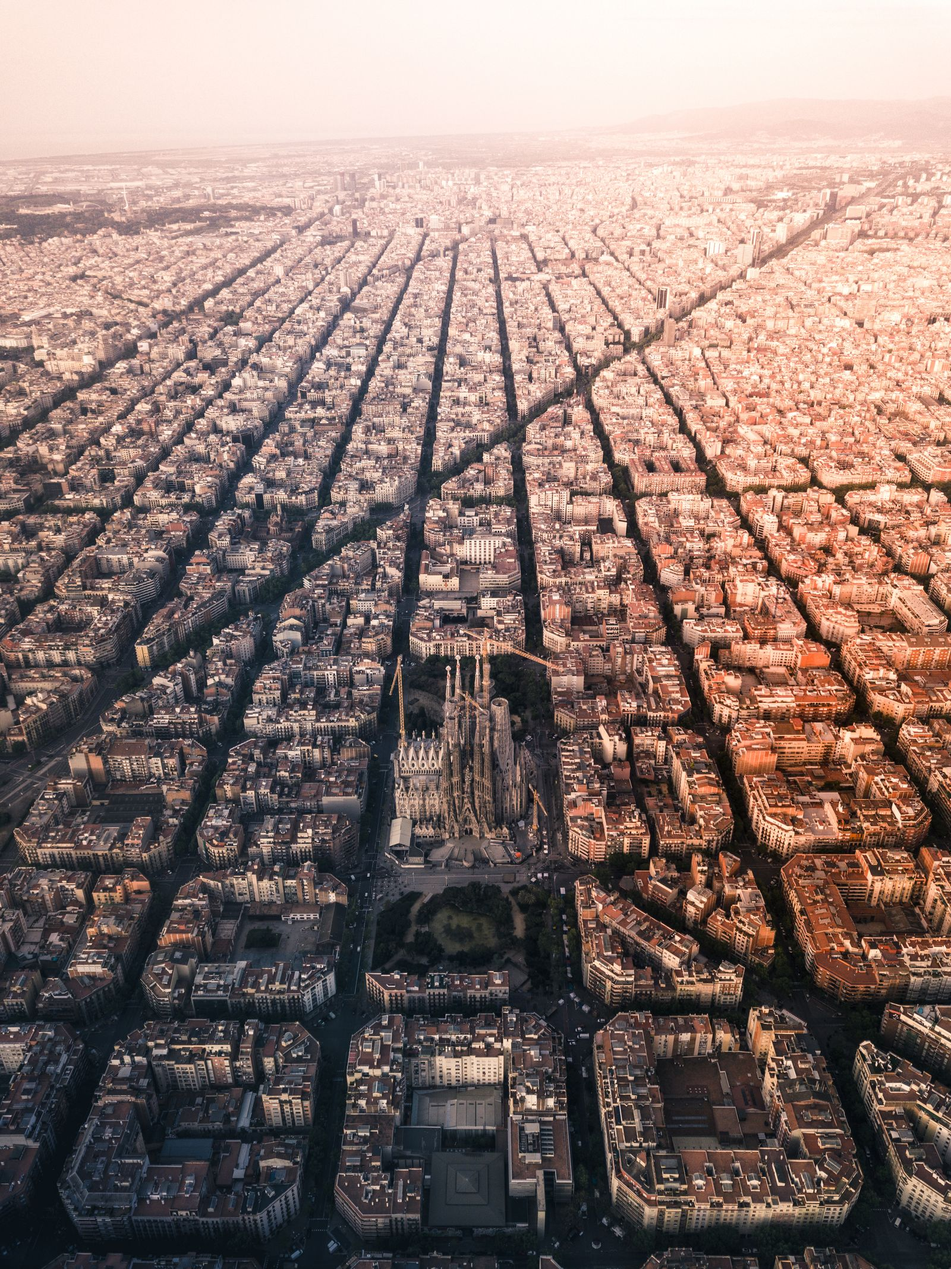
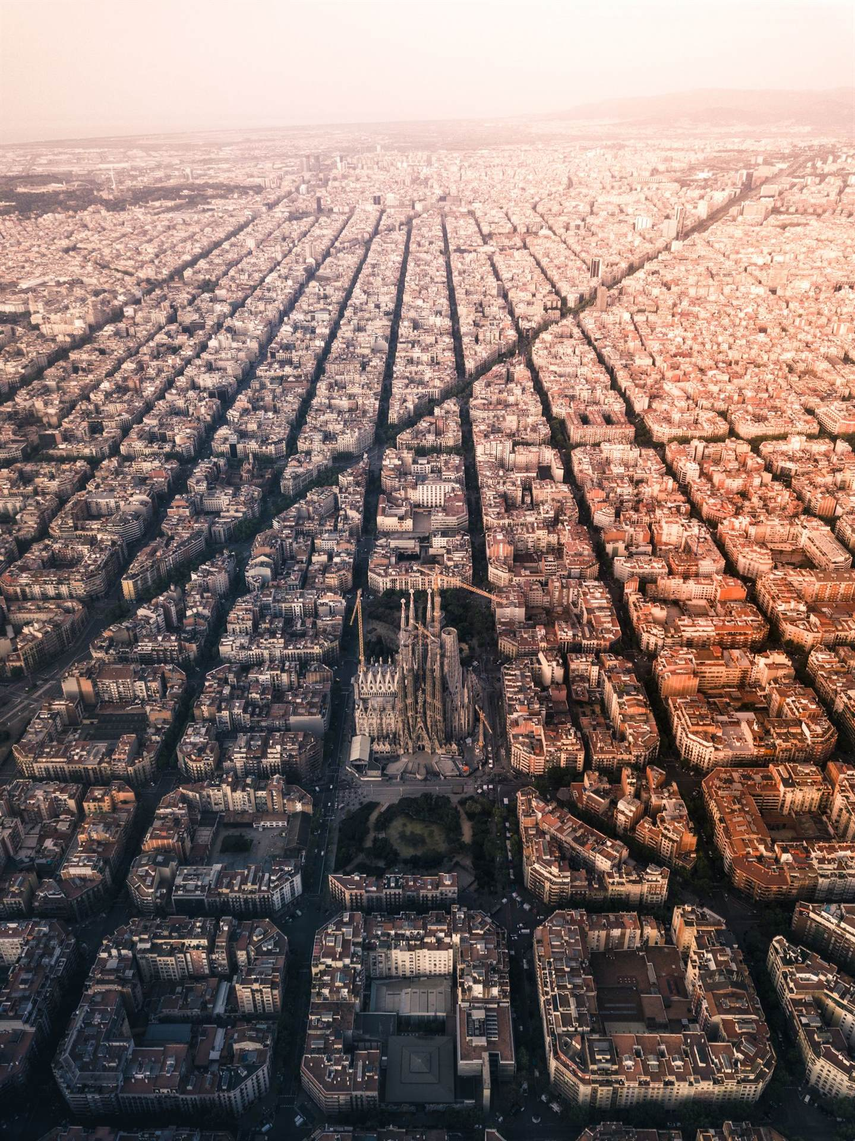
SEO/GEO: canonical, Open Graph, Twitter Card, JSON-LD, robots.txt, sitemap.xml, cache headers e imágenes optimizadas
- Agrega canonical, Open Graph y Twitter Card a las 5 páginas y a perfil.html
  (perfil.html apuntaba a un dominio de Vercel viejo, corregido al dominio real).
- Agrega JSON-LD (Organization en todas; FAQPage y Product/Offer con
  priceValidUntil en home, espana y alemania, usando el FAQ y los precios
  reales ya existentes en el HTML).
- Crea robots.txt y sitemap.xml (ambos daban 404).
- Cache-Control de 0 a 7 días para /assets, /css, /js en netlify.toml y vercel.json.
- Recomprime y redimensiona las 11 imágenes más pesadas (~5.1MB -> ~2.5MB
  combinado) vía System.Drawing, sin cambiar contenido visual.

diff --git a/alemania.html b/alemania.html
@@ -5,6 +5,67 @@
 <meta name="viewport" content="width=device-width, initial-scale=1.0">
 <title>University Discovery Tours Alemania — Conoce tu universidad antes de decidir</title>
 <meta name="description" content="Vive 3 días como universitario en Alemania: conoce desde dentro University of Europe, Young Learners y GISMA antes de elegir. Regístrate al early bird hasta el 31 de agosto.">
+<link rel="canonical" href="https://globaluniversitytours.com.mx/alemania">
+
+<!-- Open Graph -->
+<meta property="og:type" content="website">
+<meta property="og:site_name" content="University Discovery Tours">
+<meta property="og:title" content="University Discovery Tours Alemania — Conoce tu universidad antes de decidir">
+<meta property="og:description" content="Vive 3 días como universitario en Alemania: conoce desde dentro University of Europe, Young Learners y GISMA antes de elegir. Regístrate al early bird hasta el 31 de agosto.">
+<meta property="og:image" content="https://globaluniversitytours.com.mx/assets/img/destino-alemania.jpg">
+<meta property="og:url" content="https://globaluniversitytours.com.mx/alemania">
+<meta property="og:locale" content="es_LA">
+
+<!-- Twitter Card -->
+<meta name="twitter:card" content="summary_large_image">
+<meta name="twitter:title" content="University Discovery Tours Alemania — Conoce tu universidad antes de decidir">
+<meta name="twitter:description" content="Vive 3 días como universitario en Alemania: conoce desde dentro University of Europe, Young Learners y GISMA antes de elegir.">
+<meta name="twitter:image" content="https://globaluniversitytours.com.mx/assets/img/destino-alemania.jpg">
+
+<!-- Structured data -->
+<script type="application/ld+json">
+{
+  "@context": "https://schema.org",
+  "@type": "Organization",
+  "name": "University Discovery Tours",
+  "alternateName": "UDT",
+  "url": "https://globaluniversitytours.com.mx/",
+  "logo": "https://globaluniversitytours.com.mx/assets/img/logo-udt.png",
+  "sameAs": [
+    "https://www.facebook.com/share/1DwJ8RsVLq/?mibextid=wwXIfr",
+    "https://www.instagram.com/udiscoverytours"
+  ]
+}
+</script>
+<script type="application/ld+json">
+{
+  "@context": "https://schema.org",
+  "@type": "FAQPage",
+  "mainEntity": [
+    {"@type": "Question", "name": "¿Necesito ya tener una universidad elegida en Alemania?", "acceptedAnswer": {"@type": "Answer", "text": "No. El tour existe justamente para ayudarte a decidir entre University of Europe, Young Learners y GISMA."}},
+    {"@type": "Question", "name": "¿El tour incluye el viaje?", "acceptedAnswer": {"@type": "Answer", "text": "Depende de la modalidad: el Virtual es asesoría en línea; el Presencial incluye boleto de avión, alojamiento y transporte entre campus."}},
+    {"@type": "Question", "name": "¿Necesito visa para Alemania?", "acceptedAnswer": {"@type": "Answer", "text": "Depende de tu nacionalidad. Nuestro equipo de asesoría legal y migratoria te orienta paso a paso sobre el trámite que te corresponde."}},
+    {"@type": "Question", "name": "¿Qué pasa si me registro después del 31 de agosto?", "acceptedAnswer": {"@type": "Answer", "text": "Pierdes el precio early bird: el presencial sube de $3,000 a $3,500 USD (1 persona) a partir del 1 de septiembre."}},
+    {"@type": "Question", "name": "¿Puedo ir con mi papá o mamá?", "acceptedAnswer": {"@type": "Answer", "text": "Sí. La tarifa de 2 personas ($5,300 early bird) sale más conveniente que dos individuales."}},
+    {"@type": "Question", "name": "¿Ofrecen financiamiento?", "acceptedAnswer": {"@type": "Answer", "text": "Sí, planes de pago y financiamiento a través de Laudex."}},
+    {"@type": "Question", "name": "¿Cuánto cuesta el Tour Virtual?", "acceptedAnswer": {"@type": "Answer", "text": "$500 USD (solo asesoría, sin viaje)."}}
+  ]
+}
+</script>
+<script type="application/ld+json">
+{
+  "@context": "https://schema.org",
+  "@type": "Product",
+  "name": "Tour Presencial UDT — Alemania",
+  "description": "3 días conociendo desde dentro University of Europe, Young Learners y GISMA, con reuniones 1:1 con admisiones. Incluye boleto de avión y alojamiento.",
+  "brand": {"@type": "Brand", "name": "University Discovery Tours"},
+  "offers": [
+    {"@type": "Offer", "name": "1 persona", "price": "3000", "priceCurrency": "USD", "priceValidUntil": "2026-08-31", "availability": "https://schema.org/InStock", "url": "https://globaluniversitytours.com.mx/alemania"},
+    {"@type": "Offer", "name": "2 personas", "price": "5300", "priceCurrency": "USD", "priceValidUntil": "2026-08-31", "availability": "https://schema.org/InStock", "url": "https://globaluniversitytours.com.mx/alemania"}
+  ]
+}
+</script>
+
 <link rel="icon" href="assets/img/favicon.png">
 <link rel="preconnect" href="https://fonts.googleapis.com">
 <link rel="preconnect" href="https://fonts.gstatic.com" crossorigin>

diff --git a/espana.html b/espana.html
@@ -5,6 +5,67 @@
 <meta name="viewport" content="width=device-width, initial-scale=1.0">
 <title>University Discovery Tours España — Conoce tu universidad antes de decidir</title>
 <meta name="description" content="Visita por dentro universidades en España antes de elegir. 5 días, campus reales, boleto y alojamiento incluidos. Regístrate al early bird hasta el 31 de agosto.">
+<link rel="canonical" href="https://globaluniversitytours.com.mx/espana">
+
+<!-- Open Graph -->
+<meta property="og:type" content="website">
+<meta property="og:site_name" content="University Discovery Tours">
+<meta property="og:title" content="University Discovery Tours España — Conoce tu universidad antes de decidir">
+<meta property="og:description" content="Visita por dentro universidades en España antes de elegir. 5 días, campus reales, boleto y alojamiento incluidos. Regístrate al early bird hasta el 31 de agosto.">
+<meta property="og:image" content="https://globaluniversitytours.com.mx/assets/img/destino-espana.jpg">
+<meta property="og:url" content="https://globaluniversitytours.com.mx/espana">
+<meta property="og:locale" content="es_LA">
+
+<!-- Twitter Card -->
+<meta name="twitter:card" content="summary_large_image">
+<meta name="twitter:title" content="University Discovery Tours España — Conoce tu universidad antes de decidir">
+<meta name="twitter:description" content="Visita por dentro universidades en España antes de elegir. 5 días, campus reales, boleto y alojamiento incluidos.">
+<meta name="twitter:image" content="https://globaluniversitytours.com.mx/assets/img/destino-espana.jpg">
+
+<!-- Structured data -->
+<script type="application/ld+json">
+{
+  "@context": "https://schema.org",
+  "@type": "Organization",
+  "name": "University Discovery Tours",
+  "alternateName": "UDT",
+  "url": "https://globaluniversitytours.com.mx/",
+  "logo": "https://globaluniversitytours.com.mx/assets/img/logo-udt.png",
+  "sameAs": [
+    "https://www.facebook.com/share/1DwJ8RsVLq/?mibextid=wwXIfr",
+    "https://www.instagram.com/udiscoverytours"
+  ]
+}
+</script>
+<script type="application/ld+json">
+{
+  "@context": "https://schema.org",
+  "@type": "FAQPage",
+  "mainEntity": [
+    {"@type": "Question", "name": "¿Necesito ya tener una universidad elegida en España?", "acceptedAnswer": {"@type": "Answer", "text": "No. El tour existe justamente para ayudarte a decidir entre tus opciones."}},
+    {"@type": "Question", "name": "¿El tour incluye el viaje?", "acceptedAnswer": {"@type": "Answer", "text": "Depende de la modalidad: el Virtual es asesoría en línea; el Presencial incluye boleto de avión, alojamiento y transporte entre campus."}},
+    {"@type": "Question", "name": "¿Necesito visa para España?", "acceptedAnswer": {"@type": "Answer", "text": "Depende de tu nacionalidad. Nuestro equipo de asesoría legal y migratoria te orienta paso a paso sobre el trámite que te corresponde."}},
+    {"@type": "Question", "name": "¿Qué pasa si me registro después del 31 de agosto?", "acceptedAnswer": {"@type": "Answer", "text": "Pierdes el precio early bird: el presencial sube de $3,000 a $3,500 USD (1 persona) a partir del 1 de septiembre."}},
+    {"@type": "Question", "name": "¿Puedo ir con mi papá o mamá?", "acceptedAnswer": {"@type": "Answer", "text": "Sí. La tarifa de 2 personas ($5,300 early bird) sale más conveniente que dos individuales."}},
+    {"@type": "Question", "name": "¿Ofrecen financiamiento?", "acceptedAnswer": {"@type": "Answer", "text": "Sí, planes de pago y financiamiento a través de Laudex."}},
+    {"@type": "Question", "name": "¿Cuánto cuesta el Tour Virtual?", "acceptedAnswer": {"@type": "Answer", "text": "$500 USD (solo asesoría, sin viaje)."}}
+  ]
+}
+</script>
+<script type="application/ld+json">
+{
+  "@context": "https://schema.org",
+  "@type": "Product",
+  "name": "Tour Presencial UDT — España",
+  "description": "5 días recorriendo campus reales en España, con reuniones 1:1 con admisiones. Incluye boleto de avión y alojamiento.",
+  "brand": {"@type": "Brand", "name": "University Discovery Tours"},
+  "offers": [
+    {"@type": "Offer", "name": "1 persona", "price": "3000", "priceCurrency": "USD", "priceValidUntil": "2026-08-31", "availability": "https://schema.org/InStock", "url": "https://globaluniversitytours.com.mx/espana"},
+    {"@type": "Offer", "name": "2 personas", "price": "5300", "priceCurrency": "USD", "priceValidUntil": "2026-08-31", "availability": "https://schema.org/InStock", "url": "https://globaluniversitytours.com.mx/espana"}
+  ]
+}
+</script>
+
 <link rel="icon" href="assets/img/favicon.png">
 <link rel="preconnect" href="https://fonts.googleapis.com">
 <link rel="preconnect" href="https://fonts.gstatic.com" crossorigin>

diff --git a/index.html b/index.html
@@ -5,6 +5,67 @@
 <meta name="viewport" content="width=device-width, initial-scale=1.0">
 <title>University Discovery Tours — Conoce tu universidad antes de decidir</title>
 <meta name="description" content="Visita por dentro universidades en el extranjero antes de elegir. 5 días, campus reales, boleto y alojamiento incluidos. Regístrate al early bird hasta el 31 de agosto.">
+<link rel="canonical" href="https://globaluniversitytours.com.mx/">
+
+<!-- Open Graph -->
+<meta property="og:type" content="website">
+<meta property="og:site_name" content="University Discovery Tours">
+<meta property="og:title" content="University Discovery Tours — Conoce tu universidad antes de decidir">
+<meta property="og:description" content="Visita por dentro universidades en el extranjero antes de elegir. 5 días, campus reales, boleto y alojamiento incluidos. Regístrate al early bird hasta el 31 de agosto.">
+<meta property="og:image" content="https://globaluniversitytours.com.mx/assets/img/hero-universidad.jpg">
+<meta property="og:url" content="https://globaluniversitytours.com.mx/">
+<meta property="og:locale" content="es_LA">
+
+<!-- Twitter Card -->
+<meta name="twitter:card" content="summary_large_image">
+<meta name="twitter:title" content="University Discovery Tours — Conoce tu universidad antes de decidir">
+<meta name="twitter:description" content="Visita por dentro universidades en el extranjero antes de elegir. 5 días, campus reales, boleto y alojamiento incluidos.">
+<meta name="twitter:image" content="https://globaluniversitytours.com.mx/assets/img/hero-universidad.jpg">
+
+<!-- Structured data -->
+<script type="application/ld+json">
+{
+  "@context": "https://schema.org",
+  "@type": "Organization",
+  "name": "University Discovery Tours",
+  "alternateName": "UDT",
+  "url": "https://globaluniversitytours.com.mx/",
+  "logo": "https://globaluniversitytours.com.mx/assets/img/logo-udt.png",
+  "sameAs": [
+    "https://www.facebook.com/share/1DwJ8RsVLq/?mibextid=wwXIfr",
+    "https://www.instagram.com/udiscoverytours"
+  ]
+}
+</script>
+<script type="application/ld+json">
+{
+  "@context": "https://schema.org",
+  "@type": "FAQPage",
+  "mainEntity": [
+    {"@type": "Question", "name": "¿Necesito ya tener una universidad elegida?", "acceptedAnswer": {"@type": "Answer", "text": "No. El tour existe justamente para ayudarte a decidir entre tus opciones."}},
+    {"@type": "Question", "name": "¿El tour incluye el viaje?", "acceptedAnswer": {"@type": "Answer", "text": "Depende de la modalidad: el Virtual es asesoría en línea; el Presencial incluye boleto de avión, alojamiento y transporte entre campus."}},
+    {"@type": "Question", "name": "¿Para qué destinos aplica?", "acceptedAnswer": {"@type": "Answer", "text": "España, Alemania, Canadá e Inglaterra."}},
+    {"@type": "Question", "name": "¿Qué pasa si me registro después del 31 de agosto?", "acceptedAnswer": {"@type": "Answer", "text": "Pierdes el precio early bird: el presencial sube de $3,000 a $3,500 USD (1 persona) a partir del 1 de septiembre."}},
+    {"@type": "Question", "name": "¿Puedo ir con mi papá o mamá?", "acceptedAnswer": {"@type": "Answer", "text": "Sí. La tarifa de 2 personas ($5,300 early bird) sale más conveniente que dos individuales."}},
+    {"@type": "Question", "name": "¿Ofrecen financiamiento?", "acceptedAnswer": {"@type": "Answer", "text": "Sí, planes de pago y financiamiento a través de Laudex."}},
+    {"@type": "Question", "name": "¿Cuánto cuesta el Tour Virtual?", "acceptedAnswer": {"@type": "Answer", "text": "$500 USD (solo asesoría, sin viaje)."}}
+  ]
+}
+</script>
+<script type="application/ld+json">
+{
+  "@context": "https://schema.org",
+  "@type": "Product",
+  "name": "Tour Presencial UDT",
+  "description": "5 días recorriendo campus universitarios reales, con reuniones 1:1 con admisiones. Incluye boleto de avión y alojamiento.",
+  "brand": {"@type": "Brand", "name": "University Discovery Tours"},
+  "offers": [
+    {"@type": "Offer", "name": "1 persona", "price": "3000", "priceCurrency": "USD", "priceValidUntil": "2026-08-31", "availability": "https://schema.org/InStock", "url": "https://globaluniversitytours.com.mx/"},
+    {"@type": "Offer", "name": "2 personas", "price": "5300", "priceCurrency": "USD", "priceValidUntil": "2026-08-31", "availability": "https://schema.org/InStock", "url": "https://globaluniversitytours.com.mx/"}
+  ]
+}
+</script>
+
 <link rel="icon" href="assets/img/favicon.png">
 <link rel="preconnect" href="https://fonts.googleapis.com">
 <link rel="preconnect" href="https://fonts.gstatic.com" crossorigin>

diff --git a/inglaterra.html b/inglaterra.html
@@ -5,6 +5,39 @@
 <meta name="viewport" content="width=device-width, initial-scale=1.0">
 <title>University Discovery Tours Inglaterra — Próximamente</title>
 <meta name="description" content="El programa de University Discovery Tours en Inglaterra está por llegar. Dejanos tu correo y te avisamos apenas esté disponible.">
+<link rel="canonical" href="https://globaluniversitytours.com.mx/inglaterra">
+
+<!-- Open Graph -->
+<meta property="og:type" content="website">
+<meta property="og:site_name" content="University Discovery Tours">
+<meta property="og:title" content="University Discovery Tours Inglaterra — Próximamente">
+<meta property="og:description" content="El programa de University Discovery Tours en Inglaterra está por llegar. Dejanos tu correo y te avisamos apenas esté disponible.">
+<meta property="og:image" content="https://globaluniversitytours.com.mx/assets/img/destino-inglaterra.jpg">
+<meta property="og:url" content="https://globaluniversitytours.com.mx/inglaterra">
+<meta property="og:locale" content="es_LA">
+
+<!-- Twitter Card -->
+<meta name="twitter:card" content="summary_large_image">
+<meta name="twitter:title" content="University Discovery Tours Inglaterra — Próximamente">
+<meta name="twitter:description" content="El programa de University Discovery Tours en Inglaterra está por llegar. Dejanos tu correo y te avisamos apenas esté disponible.">
+<meta name="twitter:image" content="https://globaluniversitytours.com.mx/assets/img/destino-inglaterra.jpg">
+
+<!-- Structured data -->
+<script type="application/ld+json">
+{
+  "@context": "https://schema.org",
+  "@type": "Organization",
+  "name": "University Discovery Tours",
+  "alternateName": "UDT",
+  "url": "https://globaluniversitytours.com.mx/",
+  "logo": "https://globaluniversitytours.com.mx/assets/img/logo-udt.png",
+  "sameAs": [
+    "https://www.facebook.com/share/1DwJ8RsVLq/?mibextid=wwXIfr",
+    "https://www.instagram.com/udiscoverytours"
+  ]
+}
+</script>
+
 <link rel="icon" href="assets/img/favicon.png">
 <link rel="preconnect" href="https://fonts.googleapis.com">
 <link rel="preconnect" href="https://fonts.gstatic.com" crossorigin>

diff --git a/canada.html b/canada.html
@@ -5,6 +5,39 @@
 <meta name="viewport" content="width=device-width, initial-scale=1.0">
 <title>University Discovery Tours Canadá — Próximamente</title>
 <meta name="description" content="El programa de University Discovery Tours en Canadá está por llegar. Dejanos tu correo y te avisamos apenas esté disponible.">
+<link rel="canonical" href="https://globaluniversitytours.com.mx/canada">
+
+<!-- Open Graph -->
+<meta property="og:type" content="website">
+<meta property="og:site_name" content="University Discovery Tours">
+<meta property="og:title" content="University Discovery Tours Canadá — Próximamente">
+<meta property="og:description" content="El programa de University Discovery Tours en Canadá está por llegar. Dejanos tu correo y te avisamos apenas esté disponible.">
+<meta property="og:image" content="https://globaluniversitytours.com.mx/assets/img/destino-canada.jpg">
+<meta property="og:url" content="https://globaluniversitytours.com.mx/canada">
+<meta property="og:locale" content="es_LA">
+
+<!-- Twitter Card -->
+<meta name="twitter:card" content="summary_large_image">
+<meta name="twitter:title" content="University Discovery Tours Canadá — Próximamente">
+<meta name="twitter:description" content="El programa de University Discovery Tours en Canadá está por llegar. Dejanos tu correo y te avisamos apenas esté disponible.">
+<meta name="twitter:image" content="https://globaluniversitytours.com.mx/assets/img/destino-canada.jpg">
+
+<!-- Structured data -->
+<script type="application/ld+json">
+{
+  "@context": "https://schema.org",
+  "@type": "Organization",
+  "name": "University Discovery Tours",
+  "alternateName": "UDT",
+  "url": "https://globaluniversitytours.com.mx/",
+  "logo": "https://globaluniversitytours.com.mx/assets/img/logo-udt.png",
+  "sameAs": [
+    "https://www.facebook.com/share/1DwJ8RsVLq/?mibextid=wwXIfr",
+    "https://www.instagram.com/udiscoverytours"
+  ]
+}
+</script>
+
 <link rel="icon" href="assets/img/favicon.png">
 <link rel="preconnect" href="https://fonts.googleapis.com">
 <link rel="preconnect" href="https://fonts.gstatic.com" crossorigin>

diff --git a/perfil.html b/perfil.html
@@ -6,13 +6,22 @@
 <title>University Discovery Tours España — Tu plan de desarrollo educativo</title>
 <meta name="description" content="No decidas tu universidad desde un brochure. Obtén gratis tu plan de desarrollo educativo en España y accede a una consultoría personalizada.">
 
+<link rel="canonical" href="https://globaluniversitytours.com.mx/perfil">
+
 <!-- Open Graph -->
 <meta property="og:type" content="website">
+<meta property="og:site_name" content="University Discovery Tours">
 <meta property="og:title" content="University Discovery Tours España — Tu plan de desarrollo educativo">
 <meta property="og:description" content="Obtén gratis tu plan de desarrollo educativo en España y accede a una consultoría personalizada con UDT.">
-<meta property="og:image" content="https://udt-early-bird-landing.vercel.app/assets/img/estudiantes-campus.jpg">
-<meta property="og:url" content="https://udt-early-bird-landing.vercel.app/perfil.html">
+<meta property="og:image" content="https://globaluniversitytours.com.mx/assets/img/estudiantes-campus.jpg">
+<meta property="og:url" content="https://globaluniversitytours.com.mx/perfil">
 <meta property="og:locale" content="es_LA">
+
+<!-- Twitter Card -->
+<meta name="twitter:card" content="summary_large_image">
+<meta name="twitter:title" content="University Discovery Tours España — Tu plan de desarrollo educativo">
+<meta name="twitter:description" content="Obtén gratis tu plan de desarrollo educativo en España y accede a una consultoría personalizada con UDT.">
+<meta name="twitter:image" content="https://globaluniversitytours.com.mx/assets/img/estudiantes-campus.jpg">
 
 <link rel="icon" href="assets/img/favicon.png">
 <link rel="preload" as="image" href="assets/img/estudiantes-campus.jpg">
